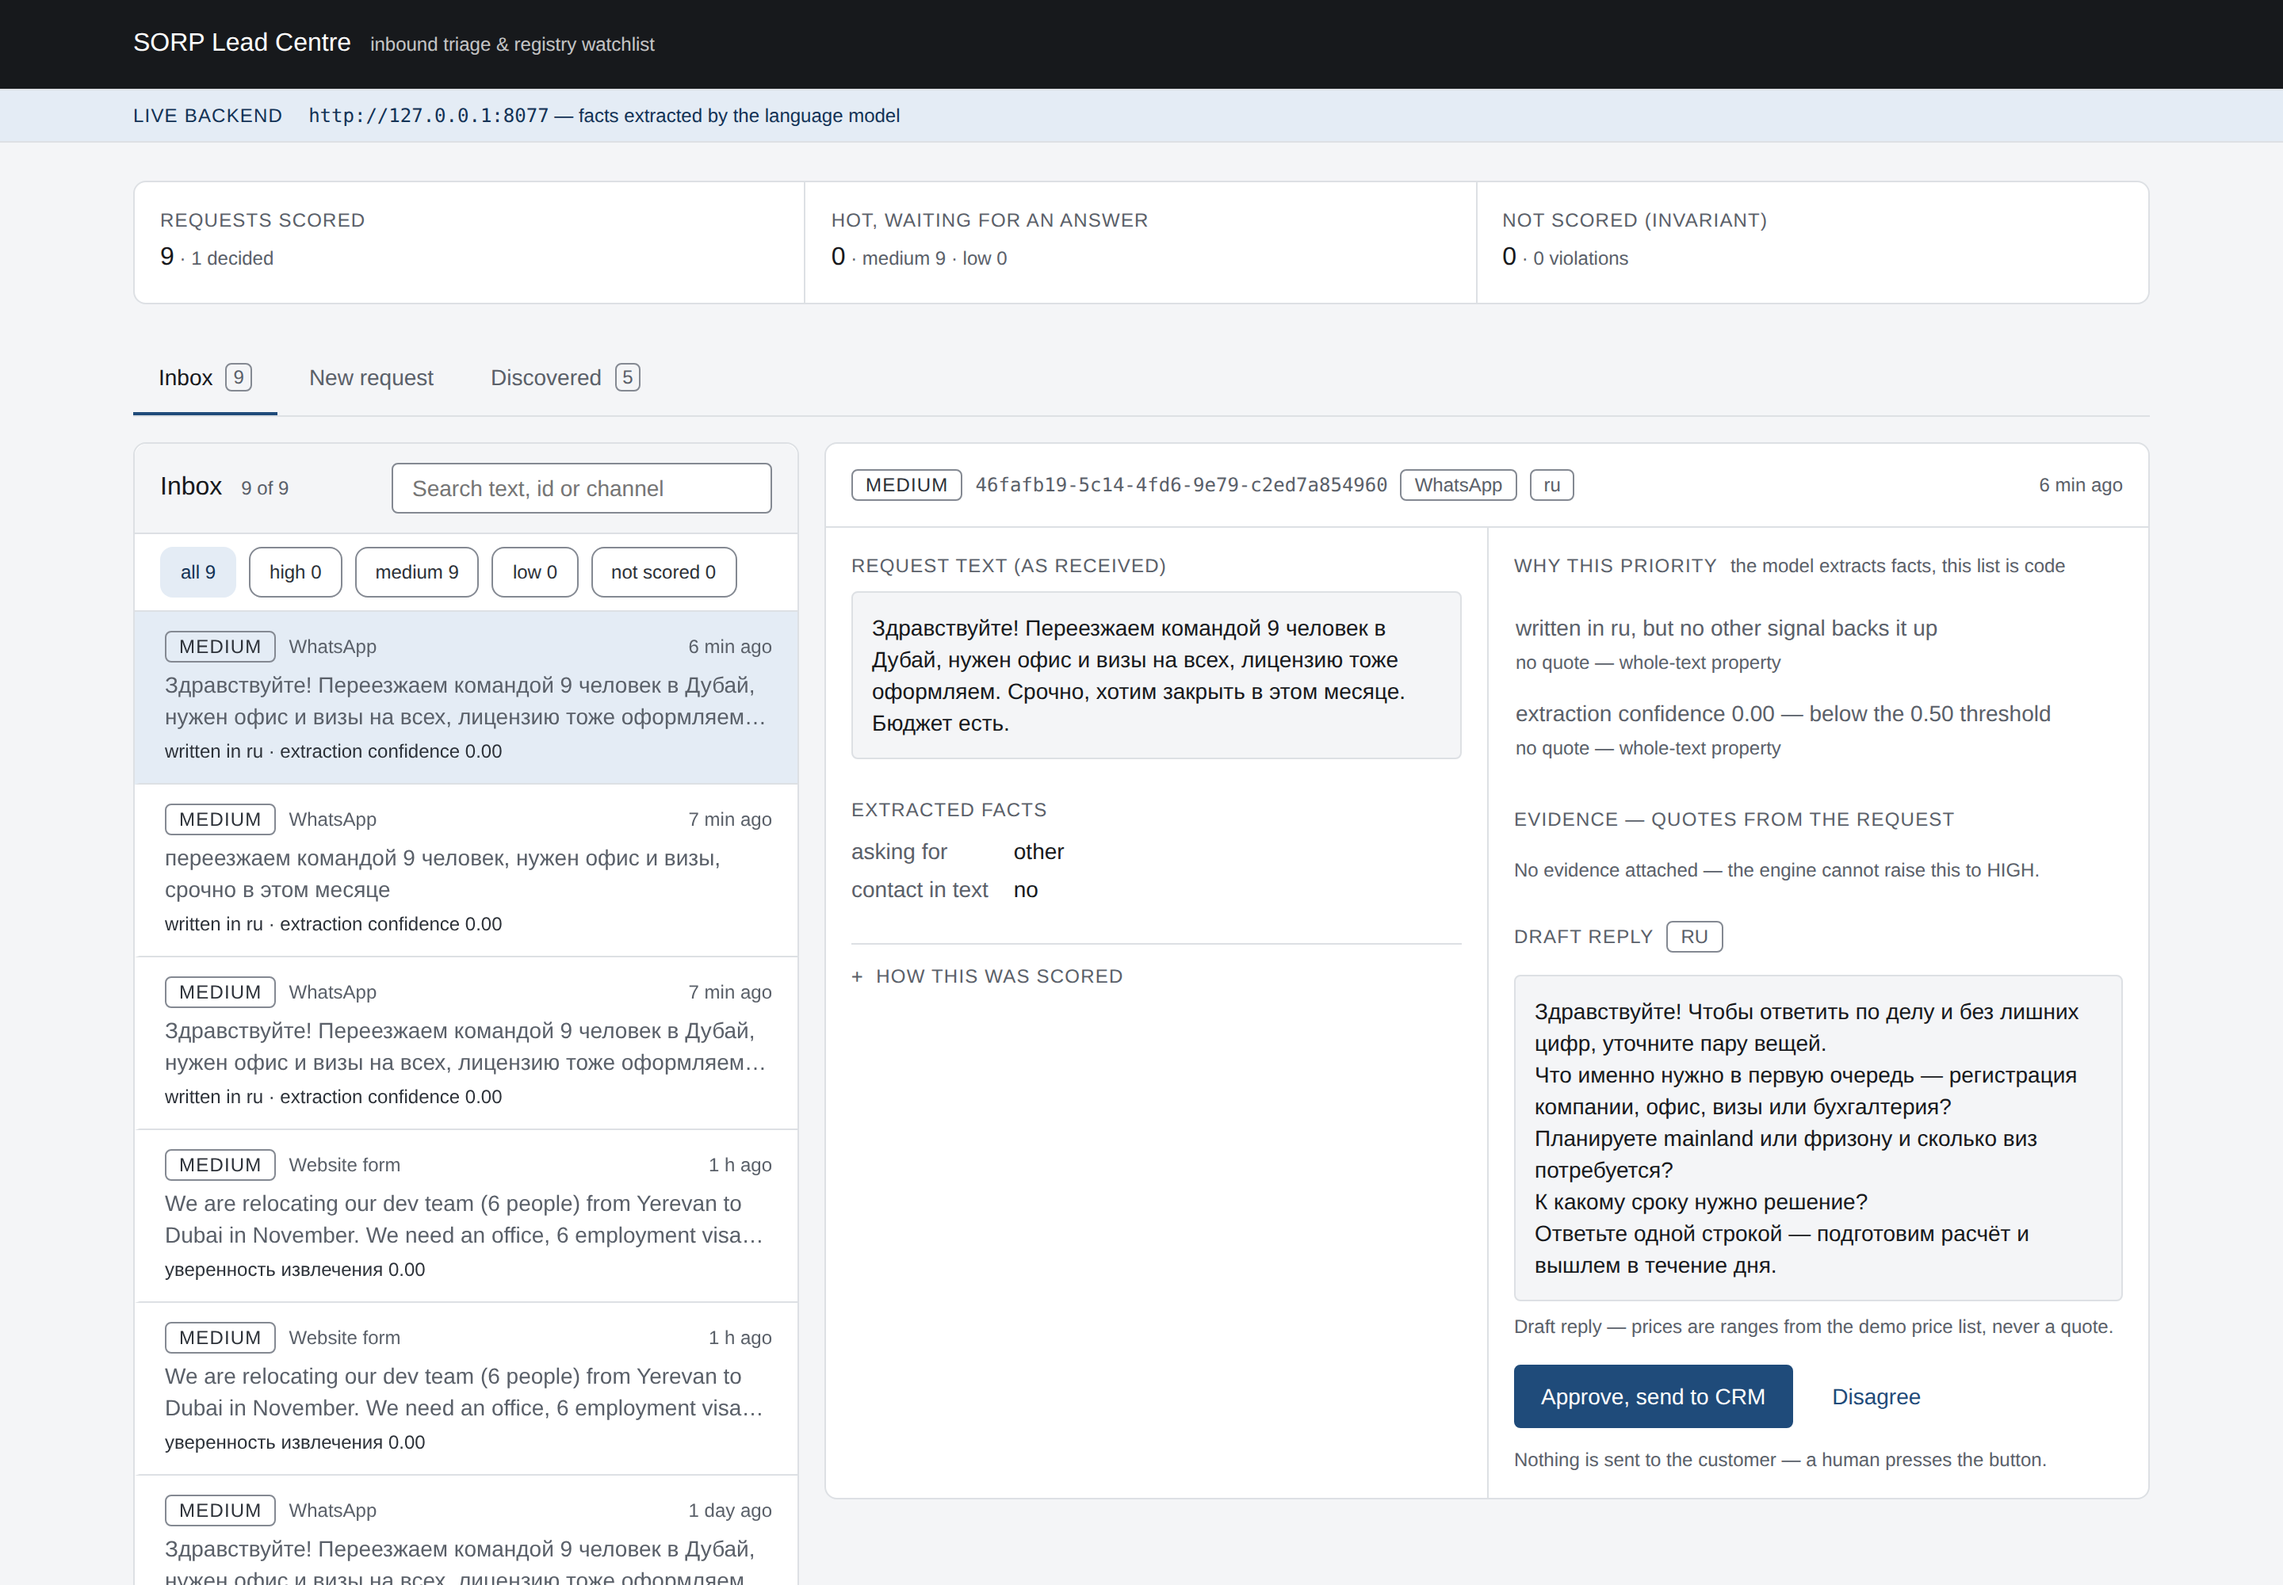
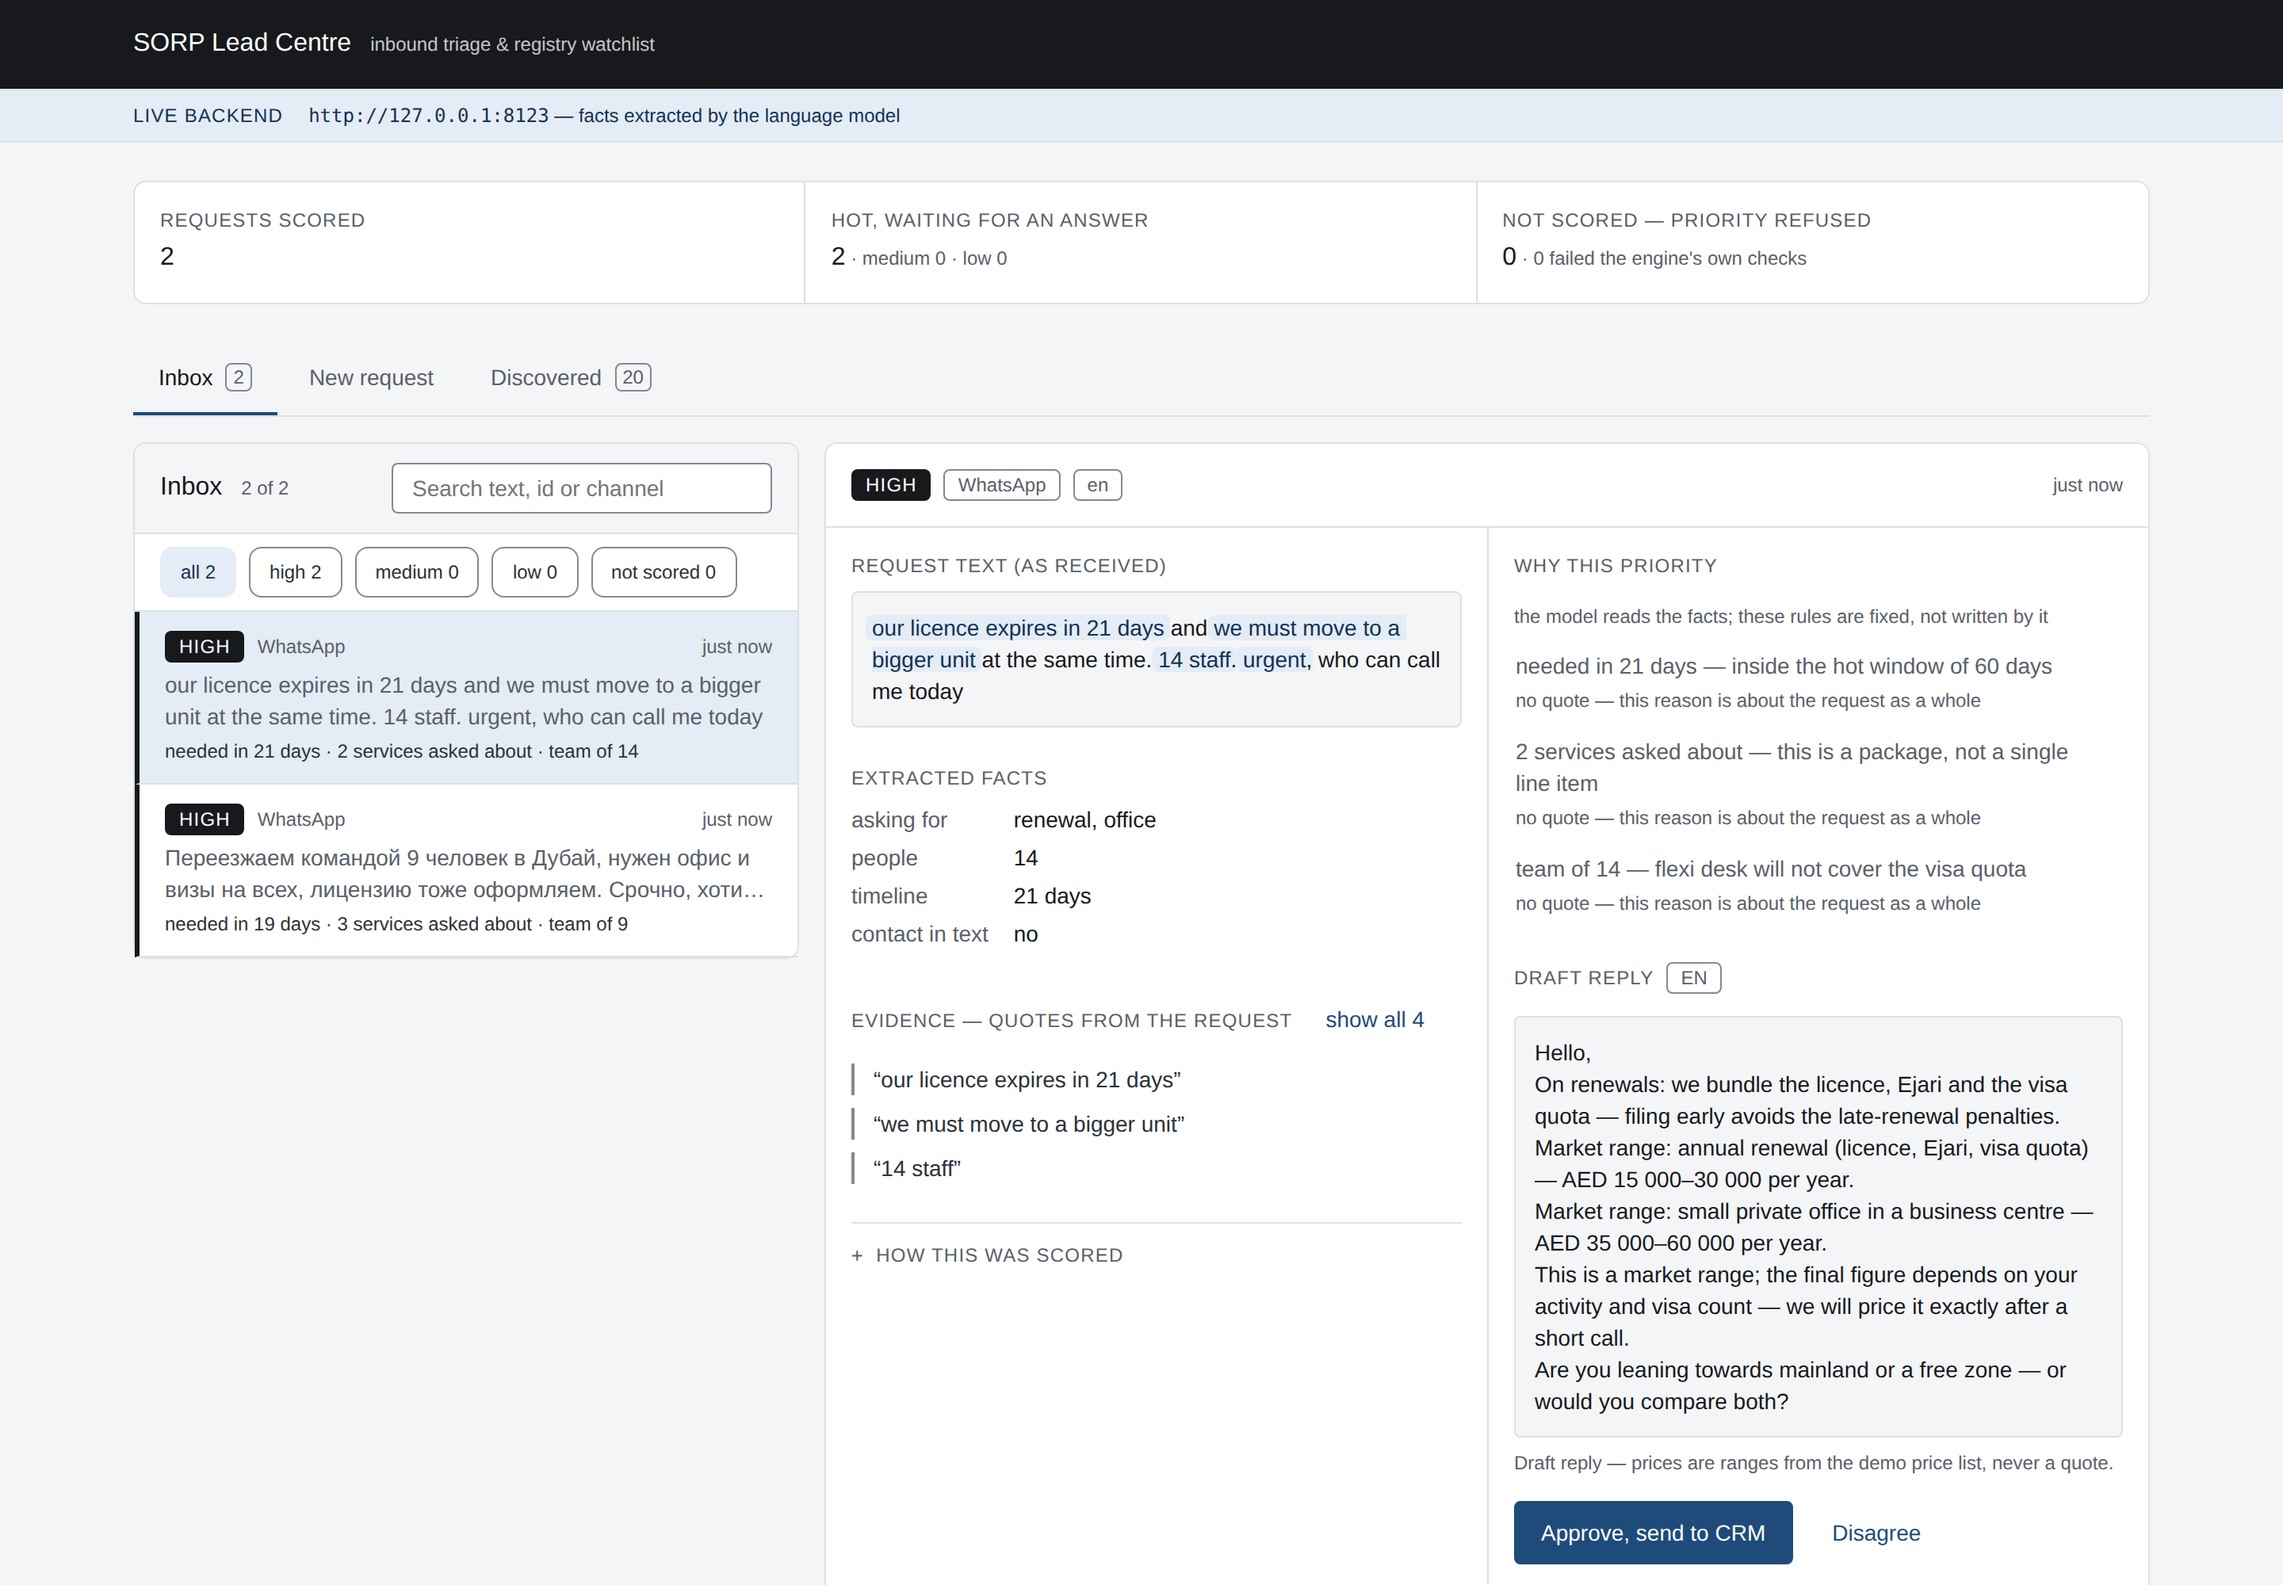
feat(shots): кадры живого режима стали воспроизводимыми одной командой
Два кадра из тринадцати не производились ничем: 08 и 09 сняты руками, и на них попал
API, поднятый с OFFLINE=1. На экране ярлык «Live backend», под ним встроенная заглушка —
`asking for: other`, «уверенность извлечения 0.00», ни одной цитаты. Живой режим выглядел
хуже демо-данных, хотя работает лучше: та же просьба даёт HIGH, четыре причины, срок
20 дней и черновик по-русски за пять секунд.

`make shots-live` делает весь путь и отказывается работать, если что-то не то:
  * поднимает API БЕЗ OFFLINE и проверяет `/health` → `"offline": false`, иначе отказ;
  * берёт порт 8123, а не 8000, и отказывается, если там уже кто-то отвечает — иначе
    проверка здоровья рассказывает про чужой процесс, а кадры снимаются с чужими данными;
  * чистит хранилище на время съёмки и возвращает его на место всегда, через trap;
  * наполняет инбокс живыми вызовами модели и вкладку «Найдено» из кэша реестра;
  * собирает дашборд против API (Next вшивает NEXT_PUBLIC_API_URL в сборку, иначе никак);
  * проверяет, что прокси дашборда доходит до API и отвечает 200, — иначе на кадре был бы
    экран ошибки под ярлыком «Live backend»;
  * снимает и пересобирает дашборд обратно в режим демо-данных.

Кадры 08/09 не снимаются обычным прогоном `shots.py` даже без фильтра: против мока
получился бы ярлык «Live backend» над демо-данными — ровно та ложь, из-за которой всё
и началось. Нужен явный запрос.

Написав скрипт, я дважды воспроизвёл в нём тот же дефект, который им чиню: `kill $PID`
[…]

diff --git a/web/scripts/shots.py b/web/scripts/shots.py
@@ -48,6 +48,15 @@ def main() -> int:
     def want(name: str) -> bool:
         return not only or name.startswith(only)
 
+    def want_live(name: str) -> bool:
+        """Кадр живого режима: только по явному запросу, никогда «заодно».
+
+        Без этого обычный прогон против мока снял бы 08/09 с ярлыком «Live backend»
+        над демо-данными — ровно та ложь, из-за которой прежние кадры показывали
+        встроенную заглушку под видом живого извлечения.
+        """
+        return bool(only) and name.startswith(only)
+
     with sync_playwright() as p:
         browser = p.chromium.launch(executable_path=CHROME, args=["--no-sandbox"])
         page = browser.new_page(viewport={"width": WIDTH, "height": HEIGHT},
@@ -104,6 +113,30 @@ def main() -> int:
             taken.append(shoot(page, "05-discovered.png"))
             page.get_by_role("tab", name="Inbox").click()
             page.wait_for_timeout(300)
+
+        # Кадры живого режима снимаются только против дашборда, СОБРАННОГО с
+        # NEXT_PUBLIC_API_URL: Next вшивает эту переменную в сборку, поэтому отдельной
+        # сборки не избежать. Оркестровка — `make shots-live`; здесь только съёмка.
+        # Без флага не снимаются намеренно: против мока получится ярлык «Live backend»
+        # над демо-данными, а это ровно та ложь, из-за которой прежние кадры 08/09
+        # показывали заглушку под видом живого извлечения.
+        if want_live("08"):
+            taken.append(shoot(page, "08-live-backend.png"))
+
+        if want_live("09"):
+            page.get_by_role("tab", name="New request").click()
+            page.wait_for_timeout(300)
+            page.get_by_role("button", name="Urgent team relocation (RU)").click()
+            page.wait_for_timeout(200)
+            page.get_by_role("button", name="Score this request").click()
+            # Живое извлечение идёт секундами, а не мгновенно: ждём карточку, а не таймер.
+            page.wait_for_selector(".card-head", timeout=90000)
+            page.wait_for_timeout(600)
+            # Снимается сама карточка, а не окно: на живом обращении она длиннее экрана,
+            # и кадр по окну обрезал её ровно перед черновиком — то есть перед тем, ради
+            # чего кадр и нужен.
+            taken.append(shoot(page, "09-live-new-request.png",
+                               page.locator(".panel").last))
 
         if want("03"):
             page.get_by_role("tab", name="New request").click()
